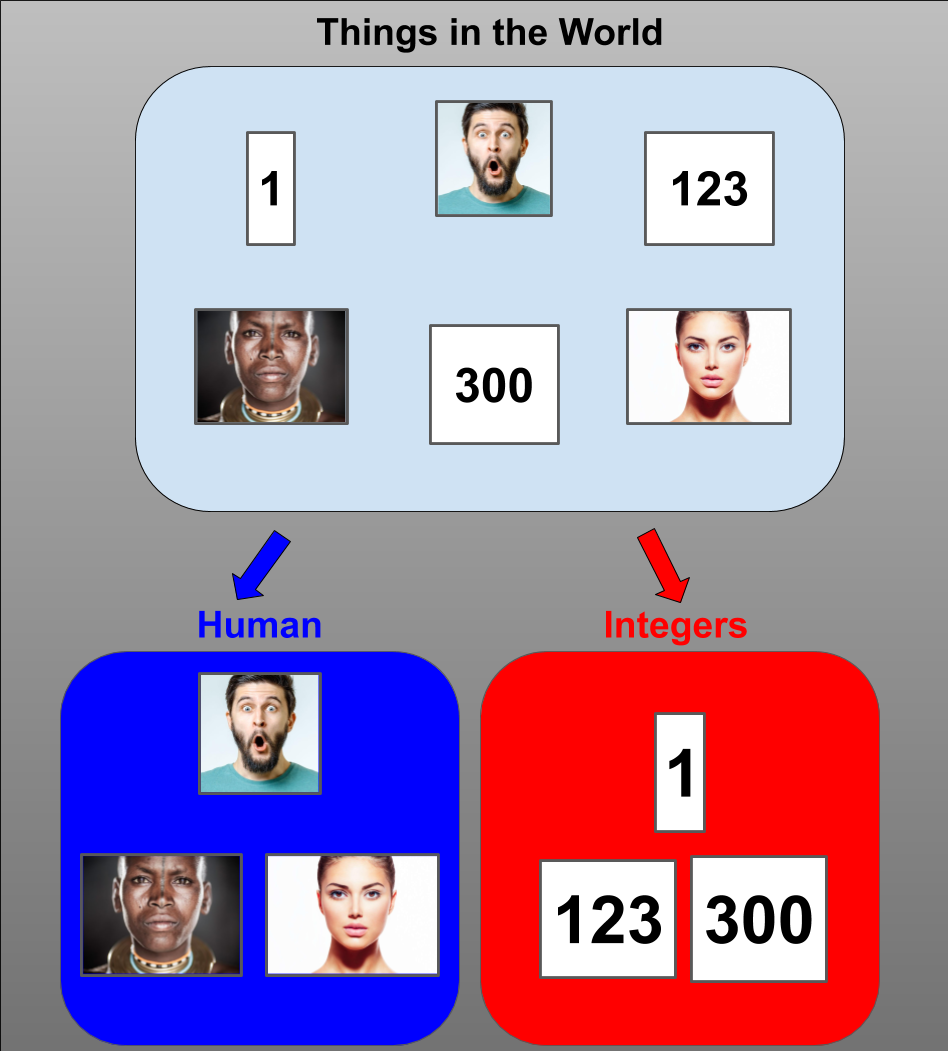
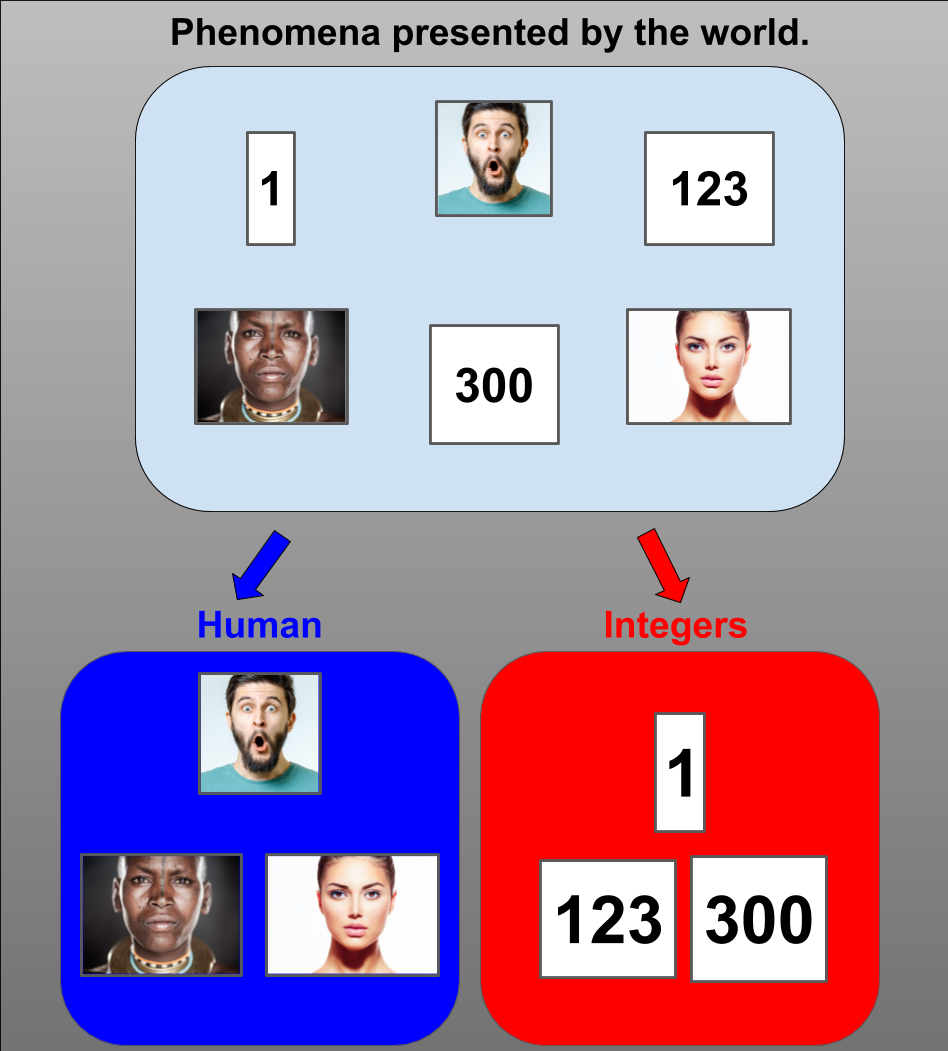
work in progress

Changed region(s): [[0.1835, 0.0, 0.8565, 0.0609]]

diff --git a/categories_and_thought.md b/categories_and_thought.md
@@ -2,26 +2,42 @@
 #### Andrew Ribeiro 
 #### August 2020
 
-The world is full of many *things* all mixed up together. A fundamental application of our minds to the problem of comprehending the world is that of classification: separating things into classes. In this essay, I explore the concept of categories and how it relates to thinking.  
+The world is full of many *things* mixed up together. A fundamental application of our minds to the problem of comprehending the world is separating things into groups, i.e., *categories*. In this essay, I explore the philosophical concept of categories and how it relates to the nature of thought.  
 
 ## Section 1: Organizing Phenomena
 
-The world appears to contain many things. One of the fundamental mental operations we can perform on things is separate them into groups, i.e., classes. Things seem to be related to other things. The simplest relationship between things is the groups they mutually belong to, i.e., their mutual classifications. *Categories* are the largest mutually exclusive groups of things. 
+The world appears to contain many things.
+
+In recognition of the perceptual layer between us and the world that contains the *things-in-themselves*, the presentations of appearances in the world are called *phenomena*, i.e., objects of our experience.  
+
+<u><b>(Definition 1) <i>Phenomena</i>:</b></u> In *"Critique of Pure Reason,"* Kant describes *phenomena* to be: "appearances to the extent that as objects they are thought in accordance with the unity of the categories." 
+
+Phenomena seem to be related to other phenomena. One of the fundamental mental operations we can perform on phenomena is their separation into groups. The simplest relationship between phenomena is the groups they mutually belong to, i.e., their mutual classifications. 
+
+<u><b>(Definition 2) <i>Class</i>:</u></b> A named grouping of phenomena.   
+
+I say classes are "groupings" instead of "groups" to emphasize that the *substance* of classes is the rules by which phenomena are identified as instances of classes, i.e., the mechanisms of *classification*. 
 
 <center>
 <figure class="image">
   <img src="img/things_in_the_world.png" alt="Three-Lego Theorem Proof" style="border: 2px black solid;">
-  <figcaption>Figure 1: Separating things in the world into classes.</figcaption>  
+  <figcaption>Figure 1: Classification of phenomena.</figcaption>  
 </figure>
 </center>
 
 
+<u><b>(Definition 3) <i>Categories</i>:</b></u> *Categories* are the largest mutually exclusive classes.
+
+
+
+
+
+
+
+<u><b>(Definition 3) <i>Categories</i>:</b></u> *Categories* are the largest mutually exclusive classes.
 
 The ten classic Aristotelian categories of things which supposedly have no overlap, i.e., the things in each category are *contained* by that category, i.e., no thing exists in more than one of the categories. 
 
 When we look at a person, their appearance causes us to think of them as "humans," i.e., we experience them as an instance of the human class.  
 
 
-
-
-In *"Critique of Pure Reason,"* Kant describes *phenomena* to be: "appearances to the extent that as objects they are thought in accordance with the unity of the categories." 
